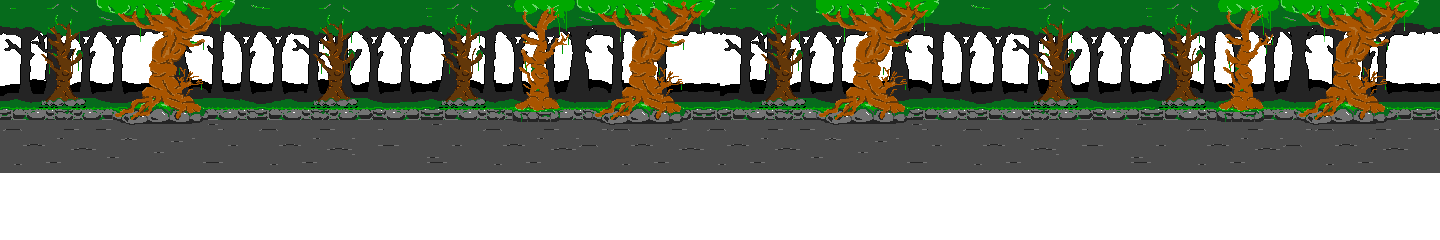
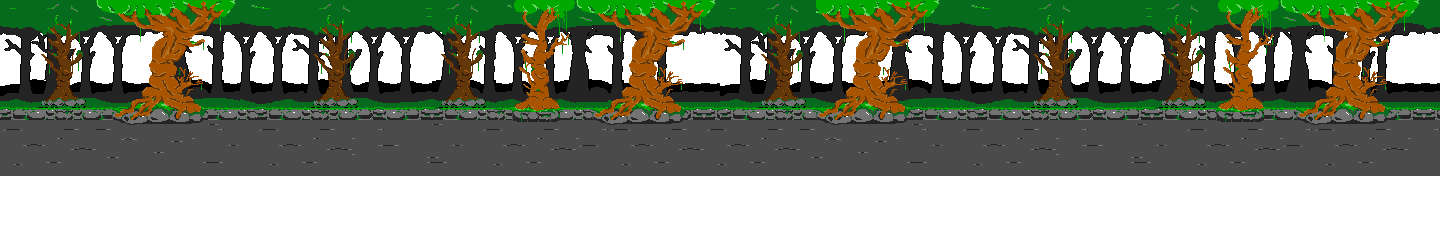
Interface graphics improvements

Changed region(s): [[0.0, 0.7, 1.0, 0.7583]]

diff --git a/src/act_1.c b/src/act_1.c
@@ -243,12 +243,12 @@ void act_1_scene_5(void)    // Combat tutorial scene with pattern demonstrations
     set_limits(0,134,275,172);
 
     // Initialize items
-    init_item(0, &item_forest_fg1_sprite, PAL0, 260, 174-16, 0, 0, 0, 0, FORCE_FOREGROUND); // Rock 1
+    init_item(0, &item_forest_fg1_sprite, PAL0, 260, 176-16, 0, 0, 0, 0, FORCE_FOREGROUND); // Rock 1
     init_item(1, &item_forest_fg5_sprite, PAL0, 180, 0, 0, 0, 0, 0, FORCE_FOREGROUND); // Tree (vertical)
-    init_item(2, &item_forest_fg2_sprite, PAL0, 440, 174-24, 0, 0, 0, 0, FORCE_FOREGROUND); // Rock 2
-    init_item(3, &item_forest_fg3_sprite, PAL0, 880, 174-16, 0, 0, 0, 0, FORCE_FOREGROUND); // Rock 3
-    init_item(4, &item_forest_fg4_sprite, PAL0, 1400, 174-72, 0, 0, 0, 0, FORCE_FOREGROUND); // Tree (big)
-    init_item(5, &item_forest_fg1_sprite, PAL0, 1050, 174-16, 0, 0, 0, 0, FORCE_FOREGROUND); // Rock 1
+    init_item(2, &item_forest_fg2_sprite, PAL0, 440, 176-24, 0, 0, 0, 0, FORCE_FOREGROUND); // Rock 2
+    init_item(3, &item_forest_fg3_sprite, PAL0, 880, 176-16, 0, 0, 0, 0, FORCE_FOREGROUND); // Rock 3
+    init_item(4, &item_forest_fg4_sprite, PAL0, 1400, 176-72, 0, 0, 0, 0, FORCE_FOREGROUND); // Tree (big)
+    init_item(5, &item_forest_fg1_sprite, PAL0, 1050, 176-16, 0, 0, 0, 0, FORCE_FOREGROUND); // Rock 1
     init_item(6, &item_forest_fg5_sprite, PAL0, 1270, 0, 0, 0, 0, 0, FORCE_FOREGROUND); // Tree (vertical)
     
     // Initialize characters
@@ -268,11 +268,11 @@ void act_1_scene_5(void)    // Combat tutorial scene with pattern demonstrations
 
     // Dialog
     move_character(CHR_linus, 30, 154);
-    talk_dialog(&dialogs[ACT1_DIALOG3][0]); // (ES) "Algún tiempo después" - (EN) "Some time later"
-    talk_dialog(&dialogs[ACT1_DIALOG3][1]); // (ES) "Se aproximan enemigos|Tenemos que estar atentos|Quédate cerca, madre" - (EN) "Enemies are approaching|We have to stay alert|Stay close, mother"
-    //talk_dialog(&dialogs[ACT1_DIALOG3][11]); // (ES) "NOTA: Ni esta escena ni estos|gráficos estarán en el|juego cuando esté terminado" - (EN) "NOTE: Neither that scene nor those|graphics will be present|in the game when it's finished"
-    //talk_dialog(&dialogs[ACT1_DIALOG3][12]); // (ES) "Se ha decidido incluirla|en esta demo técnica|como prueba de ciertas mecánicas" - (EN) "It's been decided to include it|in this technical demo|as a test of certain mechanics"
-    talk_dialog(&dialogs[ACT1_DIALOG3][13]); // (ES) "Pulsa START para ver|tu inventario de hechizos" - (EN) "Press START to view|your spell inventory"
+    //talk_dialog(&dialogs[ACT1_DIALOG3][0]); // (ES) "Algún tiempo después" - (EN) "Some time later"
+    //talk_dialog(&dialogs[ACT1_DIALOG3][1]); // (ES) "Se aproximan enemigos|Tenemos que estar atentos|Quédate cerca, madre" - (EN) "Enemies are approaching|We have to stay alert|Stay close, mother"
+    ////talk_dialog(&dialogs[ACT1_DIALOG3][11]); // (ES) "NOTA: Ni esta escena ni estos|gráficos estarán en el|juego cuando esté terminado" - (EN) "NOTE: Neither that scene nor those|graphics will be present|in the game when it's finished"
+    ////talk_dialog(&dialogs[ACT1_DIALOG3][12]); // (ES) "Se ha decidido incluirla|en esta demo técnica|como prueba de ciertas mecánicas" - (EN) "It's been decided to include it|in this technical demo|as a test of certain mechanics"
+    //talk_dialog(&dialogs[ACT1_DIALOG3][13]); // (ES) "Pulsa START para ver|tu inventario de hechizos" - (EN) "Press START to view|your spell inventory"
 
     // Fade to day palette
     PAL_fadeTo(0, 15, forest_pal.data, SCREEN_FPS, false);

diff --git a/src/counter_spell.c b/src/counter_spell.c
@@ -41,12 +41,11 @@ void reset_all_states_after_counter_spell(u16 enemy_id) {
     obj_character[active_character].state = STATE_IDLE;
     
     // Reset player state machine - use the global character_state_machines array
-    
-    character_state_machines[active_character].current_state = SM_STATE_IDLE;
-    character_state_machines[active_character].pattern_system.effect_in_progress = false;
-    character_state_machines[active_character].pattern_system.effect_type = PTRN_NONE;
-    character_state_machines[active_character].pattern_system.effect_duration = 0;
-    character_state_machines[active_character].pattern_system.effect_reversed = false;
+    player_state_machine.current_state = SM_STATE_IDLE;
+    player_state_machine.pattern_system.effect_in_progress = false;
+    player_state_machine.pattern_system.effect_type = PTRN_NONE;
+    player_state_machine.pattern_system.effect_duration = 0;
+    player_state_machine.pattern_system.effect_reversed = false;
     
     // Reset enemy state
     if (enemy_id != ENEMY_NONE && enemy_id < MAX_ENEMIES) {

diff --git a/src/pattern_types/open_pattern.c b/src/pattern_types/open_pattern.c
@@ -34,18 +34,8 @@ void open_pattern_launch(StateMachine* sm) {
 }
 
 void open_pattern_do(StateMachine* sm) {
-    // In combat, make enemies more vulnerable
-    if (is_combat_active && sm->pattern_system.effect_duration == 10) {
-        for (u16 nenemy = 0; nenemy < MAX_ENEMIES; nenemy++) {
-            if (obj_enemy[nenemy].obj_character.active &&
-                obj_enemy[nenemy].hitpoints > 0) {
-                // Make enemy more vulnerable (receives more damage)
-                obj_enemy[nenemy].vulnerable = true;
-                obj_enemy[nenemy].vulnerable_time = 300; // Duration of vulnerability
-            }
-        }
-    }
-    
+    // Do nothing by now, just wait for the effect to finish
+
     // Update duration
     sm->pattern_system.effect_duration++;
     

diff --git a/src/pattern_types/sleep_pattern.c b/src/pattern_types/sleep_pattern.c
@@ -34,17 +34,7 @@ void sleep_pattern_launch(StateMachine* sm) {
 }
 
 void sleep_pattern_do(StateMachine* sm) {
-    // In combat, apply effect of paralysis to enemies
-    if (is_combat_active && sm->pattern_system.effect_duration == 10) {
-        for (u16 nenemy = 0; nenemy < MAX_ENEMIES; nenemy++) {
-            if (obj_enemy[nenemy].obj_character.active &&
-                obj_enemy[nenemy].hitpoints > 0) {
-                // Paralyze enemy (can't attack for a time)
-                obj_enemy[nenemy].paralyzed = true;
-                obj_enemy[nenemy].paralyzed_time = 300; // Duration of paralysis
-            }
-        }
-    }
+    // Do nothing by now, just wait for the effect to finish
     
     // Update duration
     sm->pattern_system.effect_duration++;

diff --git a/src/interface.c b/src/interface.c
@@ -19,6 +19,8 @@ void show_or_hide_interface(bool visible)    // Toggle visibility of game's bott
     if (interface_active==true) {
         if (visible == true) {
             // Draw the rod and pentagram images in the window plane
+            VDP_drawImageEx(WINDOW, &int_screen_limit, TILE_ATTR_FULL(PAL2, false, false, false, tile_ind), 0, 22, false, true);
+            tile_ind+=int_screen_limit.tileset->numTile;
             VDP_drawImageEx(WINDOW, &int_rod_image, TILE_ATTR_FULL(PAL2, false, false, false, tile_ind), 0, 23, false, true);
             tile_ind+=int_rod_image.tileset->numTile;
             VDP_drawImageEx(WINDOW, &int_pentagram_image, TILE_ATTR_FULL(PAL2, false, false, false, tile_ind), 27, 22, false, true);

diff --git a/src/enemies.h b/src/enemies.h
@@ -26,10 +26,6 @@ typedef struct
     Entity obj_character;
     u16 hitpoints;
     u16 last_pattern_time[MAX_PATTERN_ENEMY];
-    bool paralyzed;           // Si el enemigo está paralizado (efecto SLEEP)
-    u16 paralyzed_time;       // Tiempo restante de parálisis
-    bool vulnerable;          // Si el enemigo es vulnerable (efecto OPEN)
-    u16 vulnerable_time;      // Tiempo restante de vulnerabilidad
 } Enemy;
 extern Enemy obj_enemy[MAX_ENEMIES]; // Enemy object
 extern Sprite *spr_enemy[MAX_ENEMIES]; // Enemy sprites

diff --git a/src/character_patterns.h b/src/character_patterns.h
@@ -14,6 +14,8 @@
 #define MAX_PATTERN_WAIT_TIME 2000   // Time to wait for a next note before cancelling the pattern in milliseconds
 #define MIN_TIME_BETWEEN_NOTES 5     // Minimum ticks between consecutive notes to prevent too rapid input
 
+extern StateMachine player_state_machine; // Global state machine for player character
+
 extern bool player_has_rod; // Has the player the rod?
 extern bool player_patterns_enabled; // Can the character play a pattern right now?
 

diff --git a/src/character_patterns.c b/src/character_patterns.c
@@ -6,8 +6,7 @@
 #include "pattern_types/sleep_pattern.h"
 #include "pattern_types/open_pattern.h"
 
-// Instancia global de la máquina de estados
-StateMachine player_state_machine;
+StateMachine player_state_machine;        // Global state machine for player character
 
 bool player_has_rod;                      // Has the player the rod?
 bool player_patterns_enabled;             // Whether pattern system is currently enabled

diff --git a/res/res_interface.h b/res/res_interface.h
@@ -31,5 +31,6 @@ extern const SpriteDefinition int_pattern_sleep;
 extern const SpriteDefinition int_life_counter_sprite;
 extern const SpriteDefinition int_button_A_sprite;
 extern const SpriteDefinition int_magin_anim_sprite;
+extern const Image int_screen_limit;
 
 #endif // _RES_RES_INTERFACE_H_

diff --git a/src/main.c b/src/main.c
@@ -22,7 +22,7 @@ int main(bool hard)    // Main game loop - handles initialization and scene tran
     #endif
 
     current_act=1;
-    current_scene=5;
+    current_scene=3;
 
     while (true) { // MAIN LOOP
         switch (current_act)
